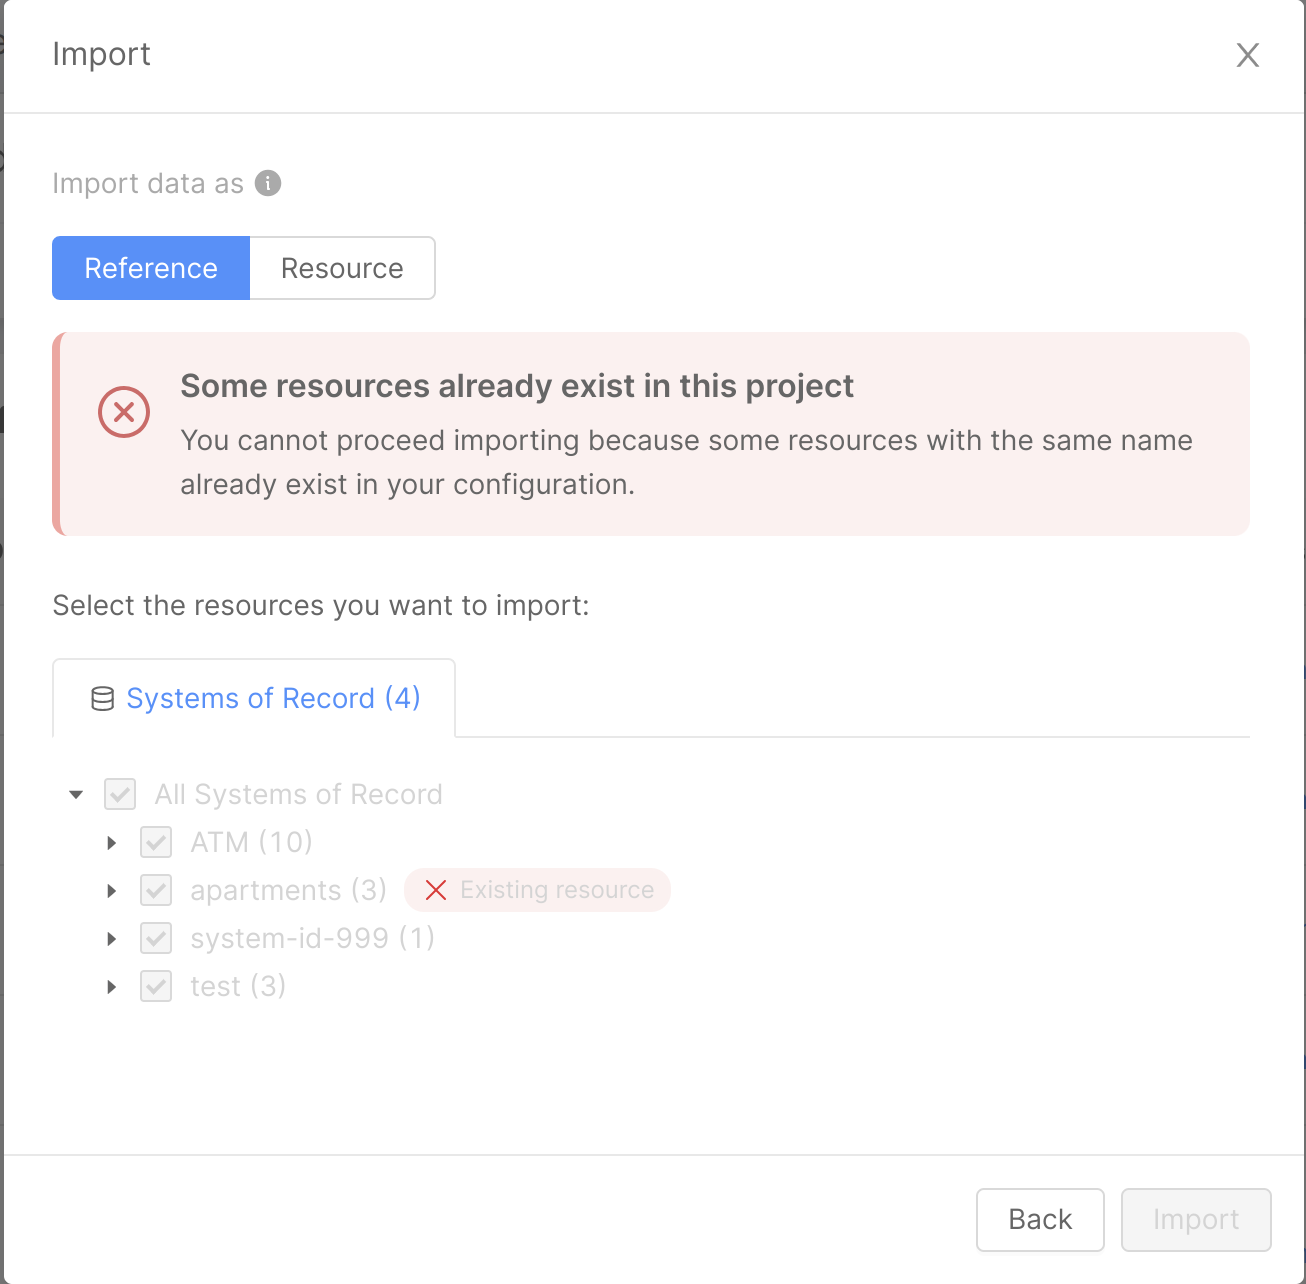
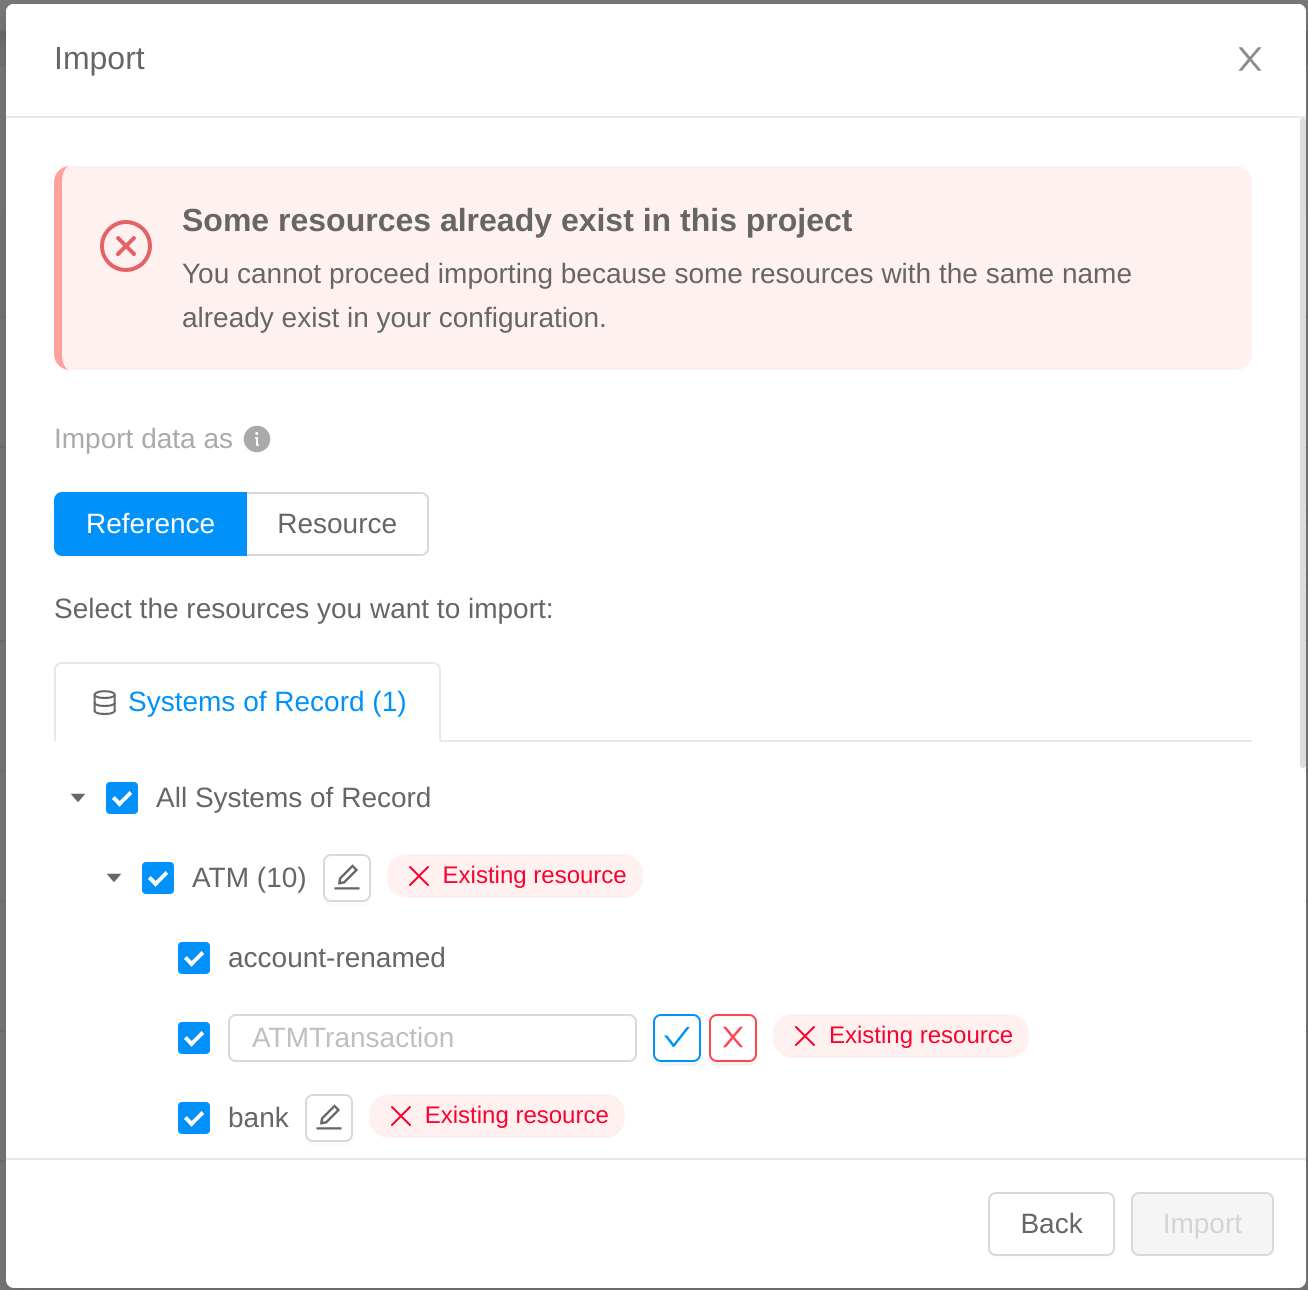
feat: updated import export doc

diff --git a/docs/fast_data/configuration/import_export.md b/docs/fast_data/configuration/import_export.md
@@ -42,10 +42,6 @@ When exporting one or more ER schemas, a check will be performed on the potentia
 
 If a custom cast function is assigned to one or more Projection fields and the Projection is exported, the cast function will be exported as well.
 
-:::caution
-At the moment, nested imported resources are not exported. e.g. when exporting an ER schema imported by reference which contains a collection imported by reference as well, the collection will not be exported. 
-:::
-
 ## Import
 
 After clicking on the `Import` button, it will be possible to upload a `.json` file containing exported data inside a modal.
@@ -66,7 +62,7 @@ Fast Data resources can be imported in two ways:
 
 2) as a resource: the resources will be copied inside the current project configuration and displayed as if they were created directly inside the current project. It will be possible to access and edit their data.
 
-In both cases, an error message will be displayed if some of the imported resources have the same name of resources or references already existing inside the project current configuration.
+In both cases, an error message will be displayed if some of the imported resources have the same name of resources or references already existing inside the project current configuration. An edit button will be then displayed to allow the renaming of these resources, unless the resources, in turn, have already been exported from external projects.
 
 ![Import modal with error](./img/fast_data_ie_import_error.png)
 
